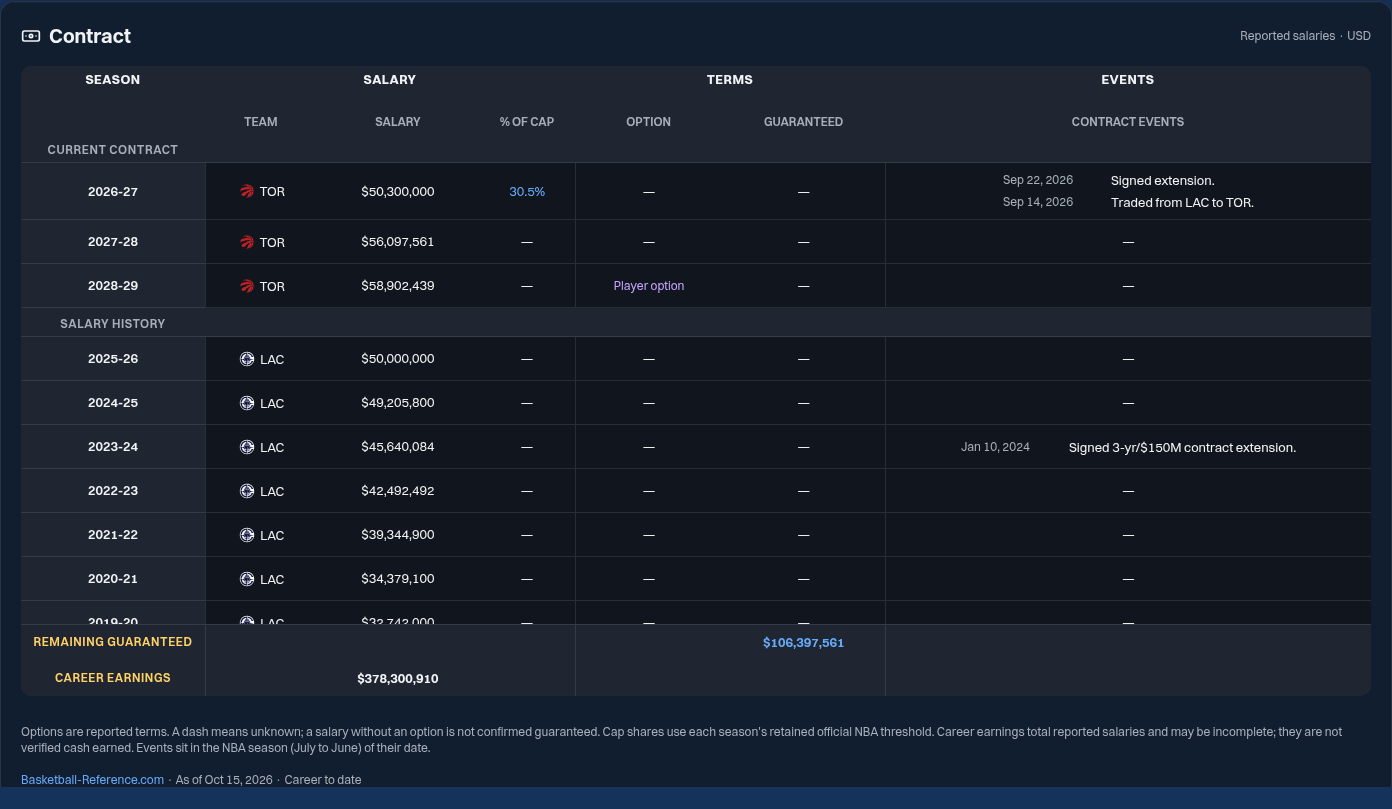
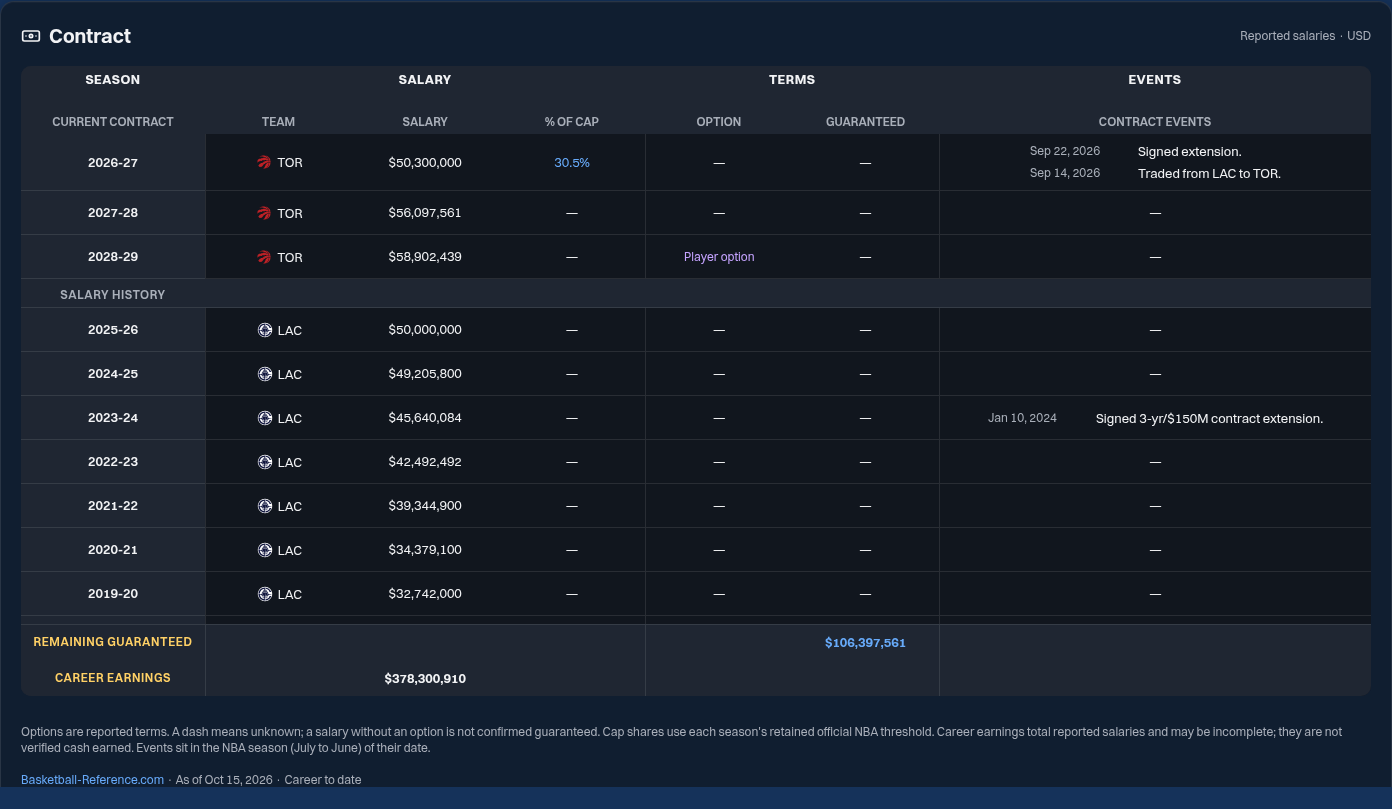
feat(align): align contract column labels and center group headers over equal columns

diff --git a/dashboard/components/player-reference-sections.css b/dashboard/components/player-reference-sections.css
@@ -15,7 +15,7 @@
      headers, table-well data cells, uppercase group tier, gold total rows. */
   .player-contract-frame { background: var(--color-table-lift); border-radius: var(--radius-md); overflow: clip; }
   .player-contract-scroll { --season-width: 184px; max-height: min(70dvh, 760px); overflow: auto; scrollbar-color: var(--color-hairline-strong) var(--color-table-lift); }
-  .player-contract-table { width: 100%; min-width: 880px; border-collapse: separate; border-spacing: 0; color: var(--color-text); font-size: var(--text-sm); line-height: var(--text-sm-lh); font-variant-numeric: tabular-nums; }
+  .player-contract-table { width: 100%; min-width: 880px; table-layout: fixed; border-collapse: separate; border-spacing: 0; color: var(--color-text); font-size: var(--text-sm); line-height: var(--text-sm-lh); font-variant-numeric: tabular-nums; }
   .player-contract-table th, .player-contract-table td { padding: var(--space-2) var(--space-3); text-align: center; white-space: nowrap; background: var(--color-table-lift); }
   .player-contract-table thead th { position: sticky; z-index: var(--z-sticky); }
   /* Header rows match the career table's: 28 px group labels over 40 px column labels (row 2, 65). */
@@ -30,15 +30,17 @@
     width: var(--season-width); min-width: var(--season-width); max-width: var(--season-width);
     font-weight: 600;
   }
-  /* Season is a group label like Salary / Terms / Events, spanning both header rows (row 2, 64). */
-  .player-contract-tier-1 th.player-contract-season { vertical-align: top; font-weight: 700; }
+  .player-contract-season-column { width: var(--season-width); }
+  .player-contract-events-column { width: 32%; }
+  /* Season is a group label like Salary / Terms / Events (row 2, 64). */
+  .player-contract-tier-1 th.player-contract-season { font-weight: 700; }
   /* Group labels need no rules between them; the body keeps its column-group rules. */
   .player-contract-table thead .group-start { border-left: 0; }
   .player-contract-table thead .player-contract-season { z-index: var(--z-sticky-corner); }
   .player-contract-table tbody th.player-contract-season { border-bottom: 1px solid var(--color-hairline-strong); }
   .player-contract-table .player-reference-team { justify-content: center; vertical-align: middle; }
   .player-contract-table td small { display: block; color: var(--color-text-secondary); font-size: var(--text-xs); }
-  .player-contract-table .player-contract-events-cell { width: 36%; min-width: 280px; white-space: normal; }
+  .player-contract-table .player-contract-events-cell { white-space: normal; }
   /* Section labels sit centered in the Season column; the rest of the row stays empty. */
   .player-contract-section th, .player-contract-section td { border-bottom: 1px solid var(--color-hairline-strong); }
   .player-contract-section th.player-contract-season { padding-block: var(--space-2) var(--space-1); color: var(--color-text-secondary); font-size: var(--text-xs); line-height: var(--text-xs-lh); font-weight: 600; letter-spacing: 0.05em; text-transform: uppercase; white-space: normal; }
@@ -70,7 +72,8 @@
     /* Wrapped labels make the rows uneven, so the totals follow the table on phones. */
     .player-contract-table tfoot td { position: static; }
     .player-contract-table tfoot th { bottom: auto; }
-    .player-contract-table .player-contract-events-cell { width: 200px; min-width: 200px; }
+    .player-contract-events-column { width: 200px; }
+    .player-contract-tier-2 th.player-contract-season { white-space: normal; }
     .player-contract-events li { grid-template-columns: minmax(0, 1fr); gap: 0; }
     .player-reference-events li { grid-template-columns: minmax(0, 1fr); gap: var(--space-1); }
     .player-reference-table th:first-child { position: sticky; left: 0; background: color-mix(in srgb, var(--color-surface-0) 58%, var(--color-bg)); z-index: var(--z-sticky); padding-right: var(--space-3); }

diff --git a/dashboard/components/player-reference-sections.tsx b/dashboard/components/player-reference-sections.tsx
@@ -77,14 +77,22 @@ function ContractTable({ reference, contract, history, events }: {
   return <div className="player-contract-frame">
     <div className="player-contract-scroll" role="region" aria-label="Contract table scroll area" tabIndex={0}>
       <table className="player-contract-table" aria-label="Contract and salary history by season">
+        {/* Fixed, equal data columns: each group label centers over its columns (row 2, 66). */}
+        <colgroup>
+          <col className="player-contract-season-column" />
+          {[0, 1, 2, 3, 4].map(i => <col key={i} />)}
+          <col className="player-contract-events-column" />
+        </colgroup>
         <thead>
           <tr className="player-contract-tier-1">
-            <th scope="col" rowSpan={2} className="player-contract-season">Season</th>
+            <th scope="colgroup" className="player-contract-season">Season</th>
             <th scope="colgroup" colSpan={3} className="group-start">Salary</th>
             <th scope="colgroup" colSpan={2} className="group-start">Terms</th>
             <th scope="colgroup" className="group-start">Events</th>
           </tr>
           <tr className="player-contract-tier-2">
+            {/* The first section's label shares the column-label row (row 2, 66). */}
+            <th scope="rowgroup" className="player-contract-season">Current Contract</th>
             <th scope="col" className="group-start player-contract-team">Team</th>
             <th scope="col">Salary</th>
             <th scope="col">% of Cap</th>
@@ -94,7 +102,6 @@ function ContractTable({ reference, contract, history, events }: {
           </tr>
         </thead>
         <tbody>
-          <tr className="player-contract-section"><th scope="rowgroup" className="player-contract-season">Current Contract</th><td colSpan={6} /></tr>
           {contract.length > 0 ? contract.map((salary, i) => row(salary, i, true))
             : <tr><td colSpan={7} className="player-contract-empty">No current contract listed in the retained report.</td></tr>}
         </tbody>

diff --git a/docs/evidence/alignment/players/contract-header/README.md b/docs/evidence/alignment/players/contract-header/README.md
@@ -18,6 +18,14 @@ Owner instructions 64–65, 2026-10-15.
   contract's section labels, now "Current Contract" and "Salary History" inside the Season
   column (the history count moves to the label's tooltip so it no longer wraps).
 
+- **Column distribution (66).** "Current Contract" now sits in the column-label row, under Season,
+  so it shares a bottom edge with Team, Salary, % of Cap, Option, Guaranteed and Contract Events.
+  Salary History stays as a section row. The table uses a fixed layout with equal data columns
+  (147 px each at 1440, 114 px at 390), and Events takes 32% (200 px on phones). Measured centers
+  at 1440: the Salary group label and the Salary column label are both at 449 px, Terms is at
+  816 px (between Option at 743 and Guaranteed at 890), and Events and Contract Events are both
+  at 1179 px. All seven column labels end at the same y.
+
 Production sandbox build, Kawhi Leonard (202695), read-only proxy to retained local data:
 
 | View | Desktop | Phone |
@@ -27,5 +35,6 @@ Production sandbox build, Kawhi Leonard (202695), read-only proxy to retained lo
 | Earlier Transactions hovered | [1440](earlier-transactions-hover-1440.png) | [390](earlier-transactions-hover-390.png) |
 
 Dashboard lint and typecheck pass, along with all 527 Vitest tests and 31 Playwright checks
-(player-reference, player-career, fo14-accessibility, players-fo09). Owner alignment is still
+(player-reference, player-career, fo14-accessibility, players-fo09); after instruction 66, 25 checks
+(player-reference, player-career, fo14-accessibility) and the full Vitest suite pass again. Owner alignment is still
 pending.

diff --git a/docs/alignment-catalog.md b/docs/alignment-catalog.md
@@ -763,6 +763,11 @@ Follow-up instructions (owner, 2026-10-15, contract and career footer):
     headers (Year / Current Contract). (Owner screenshot, 2026-10-15.) Both headers measure
     28 + 40 px; Year and the contract section labels are centered.
     [Evidence](evidence/alignment/players/contract-header/README.md).
+66. [x] Contract headers Current Contract / Team / Salary / % of Cap / Option should align with each
+    other (same padding below), and columns should be properly distributed so the Salary group
+    header and the Salary sub-header are center-aligned. (Owner screenshot, 2026-10-15.)
+    Current Contract moved into the column-label row; fixed, equal data columns; centers measured.
+    [Evidence](evidence/alignment/players/contract-header/README.md).
 
 Operational instructions (owner, 2026-10-14):
 - The existing Basketball-Reference crawl runs in another session. Do not run
